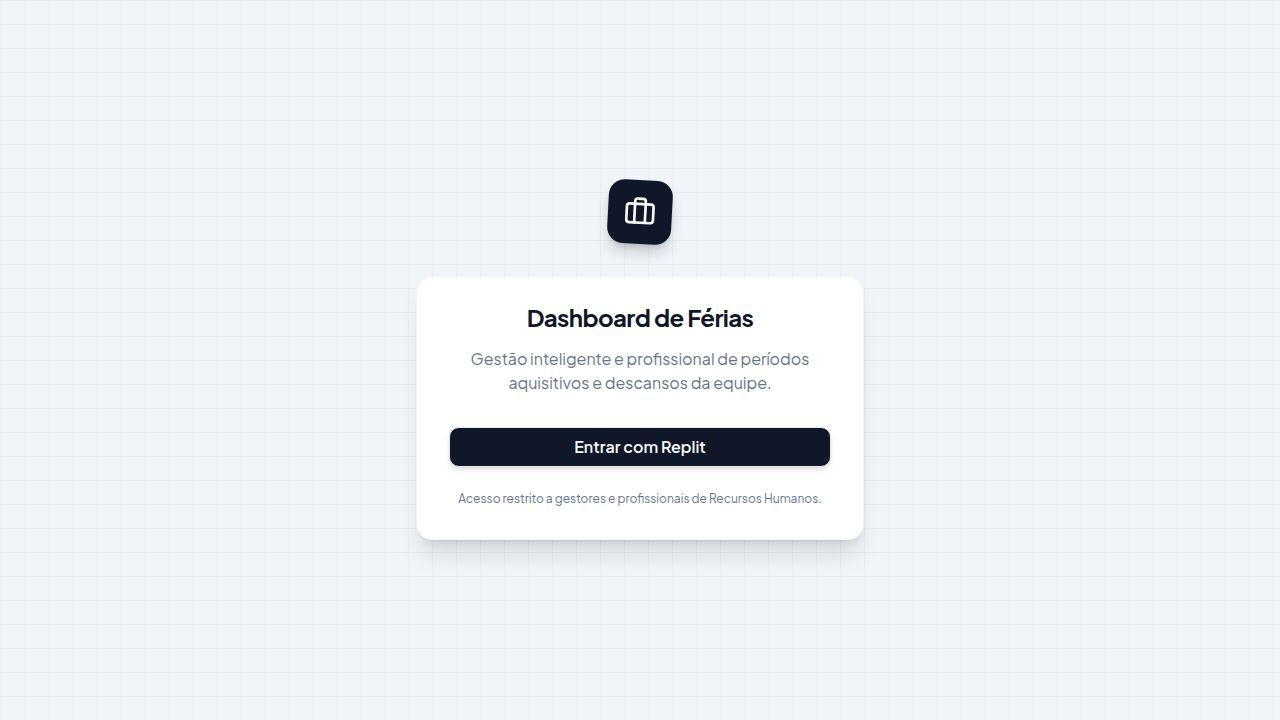
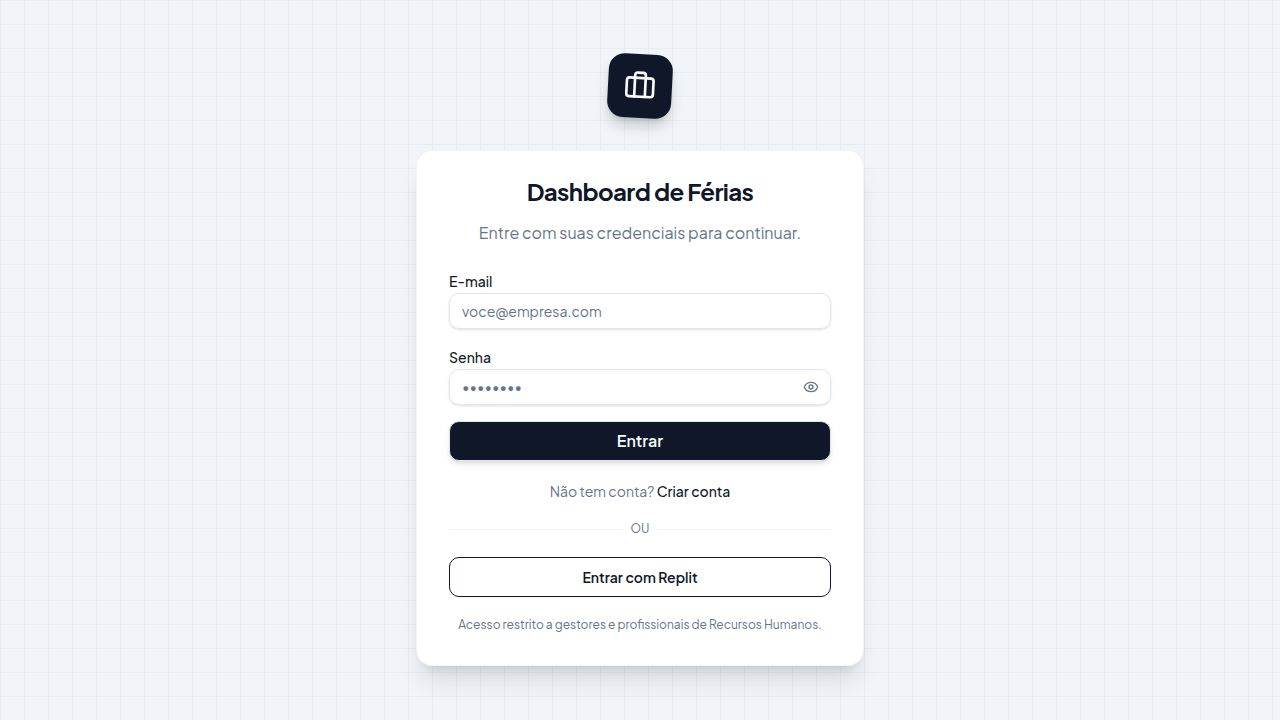
Add email and password login functionality for users
Integrates local email/password authentication by adding new API endpoints for registration and login, updating the database schema to include password hashes, and modifying the vacation dashboard to include a login form. Also includes the installation of `bcryptjs` for password encryption and related type definitions.

Replit-Commit-Author: Agent
Replit-Commit-Session-Id: 3163f47c-8a8c-4944-b483-7641e00f19a3
Replit-Commit-Checkpoint-Type: full_checkpoint
Replit-Commit-Event-Id: b3e093bc-023c-422b-8039-bb496e6e2860
Replit-Commit-Screenshot-Url: https://storage.googleapis.com/screenshot-production-us-central1/3de2da0e-2d70-4d1c-9a7f-1beb80ef44da/3163f47c-8a8c-4944-b483-7641e00f19a3/1ZQdvov
Replit-Helium-Checkpoint-Created: true

diff --git a/artifacts/vacation-dashboard/src/pages/login.tsx b/artifacts/vacation-dashboard/src/pages/login.tsx
@@ -1,38 +1,218 @@
+import { useState } from "react";
 import { useAuth } from "@workspace/replit-auth-web";
 import { Button } from "@/components/ui/button";
-import { Briefcase } from "lucide-react";
+import { Input } from "@/components/ui/input";
+import { Briefcase, Eye, EyeOff, Loader2 } from "lucide-react";
 import { Card, CardContent, CardDescription, CardHeader, CardTitle } from "@/components/ui/card";
+import { Label } from "@/components/ui/label";
+import { useToast } from "@/hooks/use-toast";
+
+type Mode = "login" | "register";
+
+function getApiBase() {
+  const base = import.meta.env.BASE_URL?.replace(/\/$/, "") ?? "";
+  return `${base}/api`;
+}
 
 export default function Login() {
   const { login } = useAuth();
+  const { toast } = useToast();
+
+  const [mode, setMode] = useState<Mode>("login");
+  const [loading, setLoading] = useState(false);
+  const [showPassword, setShowPassword] = useState(false);
+
+  const [email, setEmail] = useState("");
+  const [password, setPassword] = useState("");
+  const [firstName, setFirstName] = useState("");
+  const [lastName, setLastName] = useState("");
+
+  const handleSubmit = async (e: React.FormEvent) => {
+    e.preventDefault();
+    setLoading(true);
+
+    try {
+      const endpoint = mode === "login" ? "/auth/login-local" : "/auth/register-local";
+      const body =
+        mode === "login"
+          ? { email, password }
+          : { email, password, firstName, lastName };
+
+      const res = await fetch(`${getApiBase()}${endpoint}`, {
+        method: "POST",
+        headers: { "Content-Type": "application/json" },
+        body: JSON.stringify(body),
+        credentials: "include",
+      });
+
+      const data = await res.json();
+
+      if (!res.ok) {
+        toast({ variant: "destructive", title: "Erro", description: data.error ?? "Ocorreu um erro." });
+        return;
+      }
+
+      window.location.reload();
+    } catch {
+      toast({ variant: "destructive", title: "Erro de conexão", description: "Não foi possível conectar ao servidor." });
+    } finally {
+      setLoading(false);
+    }
+  };
 
   return (
     <div className="min-h-screen w-full flex items-center justify-center bg-muted/30 p-4">
-      <div className="absolute inset-0 bg-[linear-gradient(to_right,#80808012_1px,transparent_1px),linear-gradient(to_bottom,#80808012_1px,transparent_1px)] bg-[size:24px_24px]"></div>
+      <div className="absolute inset-0 bg-[linear-gradient(to_right,#80808012_1px,transparent_1px),linear-gradient(to_bottom,#80808012_1px,transparent_1px)] bg-[size:24px_24px]" />
       <div className="relative z-10 w-full max-w-md animate-in fade-in zoom-in-95 duration-500">
         <div className="flex justify-center mb-8">
           <div className="h-16 w-16 bg-primary rounded-2xl flex items-center justify-center shadow-lg shadow-primary/20 rotate-3 transition-transform hover:rotate-0">
             <Briefcase className="w-8 h-8 text-primary-foreground" />
           </div>
         </div>
-        
+
         <Card className="border-border/50 shadow-xl">
           <CardHeader className="text-center pb-2">
             <CardTitle className="text-2xl font-bold tracking-tight">Dashboard de Férias</CardTitle>
             <CardDescription className="text-base mt-2">
-              Gestão inteligente e profissional de períodos aquisitivos e descansos da equipe.
+              {mode === "login"
+                ? "Entre com suas credenciais para continuar."
+                : "Crie sua conta para acessar o sistema."}
             </CardDescription>
           </CardHeader>
-          <CardContent className="pt-6 pb-8 px-8">
-            <Button 
-              size="lg" 
-              className="w-full text-base font-semibold shadow-md"
+
+          <CardContent className="pt-4 pb-8 px-8 space-y-5">
+            <form onSubmit={handleSubmit} className="space-y-4">
+              {mode === "register" && (
+                <div className="grid grid-cols-2 gap-3">
+                  <div className="space-y-1.5">
+                    <Label htmlFor="firstName">Nome</Label>
+                    <Input
+                      id="firstName"
+                      placeholder="João"
+                      value={firstName}
+                      onChange={(e) => setFirstName(e.target.value)}
+                      required
+                      disabled={loading}
+                      data-testid="input-first-name"
+                    />
+                  </div>
+                  <div className="space-y-1.5">
+                    <Label htmlFor="lastName">Sobrenome</Label>
+                    <Input
+                      id="lastName"
+                      placeholder="Silva"
+                      value={lastName}
+                      onChange={(e) => setLastName(e.target.value)}
+                      required
+                      disabled={loading}
+                      data-testid="input-last-name"
+                    />
+                  </div>
+                </div>
+              )}
+
+              <div className="space-y-1.5">
+                <Label htmlFor="email">E-mail</Label>
+                <Input
+                  id="email"
+                  type="email"
+                  placeholder="voce@empresa.com"
+                  value={email}
+                  onChange={(e) => setEmail(e.target.value)}
+                  required
+                  disabled={loading}
+                  data-testid="input-email"
+                />
+              </div>
+
+              <div className="space-y-1.5">
+                <Label htmlFor="password">Senha</Label>
+                <div className="relative">
+                  <Input
+                    id="password"
+                    type={showPassword ? "text" : "password"}
+                    placeholder={mode === "register" ? "Mínimo 6 caracteres" : "••••••••"}
+                    value={password}
+                    onChange={(e) => setPassword(e.target.value)}
+                    required
+                    disabled={loading}
+                    className="pr-10"
+                    data-testid="input-password"
+                  />
+                  <button
+                    type="button"
+                    tabIndex={-1}
+                    className="absolute right-3 top-1/2 -translate-y-1/2 text-muted-foreground hover:text-foreground transition-colors"
+                    onClick={() => setShowPassword((s) => !s)}
+                  >
+                    {showPassword ? <EyeOff className="h-4 w-4" /> : <Eye className="h-4 w-4" />}
+                  </button>
+                </div>
+              </div>
+
+              <Button
+                type="submit"
+                size="lg"
+                className="w-full text-base font-semibold shadow-md"
+                disabled={loading}
+                data-testid="button-submit-local"
+              >
+                {loading ? (
+                  <Loader2 className="h-4 w-4 animate-spin mr-2" />
+                ) : null}
+                {mode === "login" ? "Entrar" : "Criar conta"}
+              </Button>
+            </form>
+
+            <div className="text-center text-sm">
+              {mode === "login" ? (
+                <span className="text-muted-foreground">
+                  Não tem conta?{" "}
+                  <button
+                    type="button"
+                    className="text-primary font-medium hover:underline"
+                    onClick={() => { setMode("register"); setPassword(""); }}
+                    data-testid="link-to-register"
+                  >
+                    Criar conta
+                  </button>
+                </span>
+              ) : (
+                <span className="text-muted-foreground">
+                  Já tem conta?{" "}
+                  <button
+                    type="button"
+                    className="text-primary font-medium hover:underline"
+                    onClick={() => { setMode("login"); setPassword(""); }}
+                    data-testid="link-to-login"
+                  >
+                    Entrar
+                  </button>
+                </span>
+              )}
+            </div>
+
+            <div className="relative">
+              <div className="absolute inset-0 flex items-center">
+                <span className="w-full border-t border-border/60" />
+              </div>
+              <div className="relative flex justify-center text-xs uppercase">
+                <span className="bg-card px-2 text-muted-foreground">ou</span>
+              </div>
+            </div>
+
+            <Button
+              type="button"
+              variant="outline"
+              size="lg"
+              className="w-full font-semibold"
               onClick={login}
-              data-testid="button-login"
+              data-testid="button-login-replit"
             >
               Entrar com Replit
             </Button>
-            <p className="text-center text-xs text-muted-foreground mt-6">
+
+            <p className="text-center text-xs text-muted-foreground">
               Acesso restrito a gestores e profissionais de Recursos Humanos.
             </p>
           </CardContent>

diff --git a/artifacts/api-server/src/routes/auth.ts b/artifacts/api-server/src/routes/auth.ts
@@ -1,4 +1,5 @@
 import * as oidc from "openid-client";
+import bcrypt from "bcryptjs";
 import { Router, type IRouter, type Request, type Response } from "express";
 import {
   GetCurrentAuthUserResponse,
@@ -11,6 +12,7 @@ import { db, usersTable } from "@workspace/db";
 import {
   clearSession,
   getOidcConfig,
+  getSession,
   getSessionId,
   createSession,
   deleteSession,
@@ -194,18 +196,120 @@ router.get("/callback", async (req: Request, res: Response) => {
 });
 
 router.get("/logout", async (req: Request, res: Response) => {
-  const config = await getOidcConfig();
   const origin = getOrigin(req);
-
   const sid = getSessionId(req);
+
+  const session = sid ? await getSession(sid) : null;
+  const isLocal = session?.localAuth === true;
+
   await clearSession(res, sid);
 
+  if (isLocal) {
+    res.redirect("/");
+    return;
+  }
+
+  const config = await getOidcConfig();
   const endSessionUrl = oidc.buildEndSessionUrl(config, {
     client_id: process.env.REPL_ID!,
     post_logout_redirect_uri: origin,
   });
 
   res.redirect(endSessionUrl.href);
+});
+
+function isValidEmail(email: string): boolean {
+  return /^[^\s@]+@[^\s@]+\.[^\s@]+$/.test(email);
+}
+
+router.post("/auth/register-local", async (req: Request, res: Response): Promise<void> => {
+  const { email, password, firstName, lastName } = req.body ?? {};
+
+  if (!email || !isValidEmail(email)) {
+    res.status(400).json({ error: "E-mail inválido." });
+    return;
+  }
+  if (!password || password.length < 6) {
+    res.status(400).json({ error: "A senha deve ter no mínimo 6 caracteres." });
+    return;
+  }
+  if (!firstName?.trim()) {
+    res.status(400).json({ error: "Nome é obrigatório." });
+    return;
+  }
+  if (!lastName?.trim()) {
+    res.status(400).json({ error: "Sobrenome é obrigatório." });
+    return;
+  }
+
+  const [existing] = await db.select().from(usersTable).where(eq(usersTable.email, email));
+  if (existing) {
+    res.status(409).json({ error: "Este e-mail já está cadastrado." });
+    return;
+  }
+
+  const passwordHash = await bcrypt.hash(password, 12);
+  const [user] = await db.insert(usersTable).values({
+    email,
+    firstName,
+    lastName,
+    passwordHash,
+  }).returning();
+
+  const sessionData: SessionData = {
+    user: {
+      id: user.id,
+      email: user.email,
+      firstName: user.firstName,
+      lastName: user.lastName,
+      profileImageUrl: user.profileImageUrl,
+      isManager: user.isManager,
+    },
+    access_token: "",
+    localAuth: true,
+  };
+
+  const sid = await createSession(sessionData);
+  setSessionCookie(res, sid);
+  res.json({ ok: true });
+});
+
+router.post("/auth/login-local", async (req: Request, res: Response): Promise<void> => {
+  const { email, password } = req.body ?? {};
+
+  if (!email || !password) {
+    res.status(400).json({ error: "E-mail ou senha inválidos." });
+    return;
+  }
+
+  const [user] = await db.select().from(usersTable).where(eq(usersTable.email, email));
+  if (!user || !user.passwordHash) {
+    res.status(401).json({ error: "E-mail ou senha incorretos." });
+    return;
+  }
+
+  const match = await bcrypt.compare(password, user.passwordHash);
+  if (!match) {
+    res.status(401).json({ error: "E-mail ou senha incorretos." });
+    return;
+  }
+
+  const sessionData: SessionData = {
+    user: {
+      id: user.id,
+      email: user.email,
+      firstName: user.firstName,
+      lastName: user.lastName,
+      profileImageUrl: user.profileImageUrl,
+      isManager: user.isManager,
+    },
+    access_token: "",
+    localAuth: true,
+  };
+
+  const sid = await createSession(sessionData);
+  setSessionCookie(res, sid);
+  res.json({ ok: true });
 });
 
 router.post(

diff --git a/lib/db/src/schema/auth.ts b/lib/db/src/schema/auth.ts
@@ -19,6 +19,7 @@ export const usersTable = pgTable("users", {
   firstName: varchar("first_name"),
   lastName: varchar("last_name"),
   profileImageUrl: varchar("profile_image_url"),
+  passwordHash: varchar("password_hash"),
   isManager: boolean("is_manager").notNull().default(false),
   createdAt: timestamp("created_at", { withTimezone: true }).notNull().defaultNow(),
   updatedAt: timestamp("updated_at", { withTimezone: true }).notNull().defaultNow().$onUpdate(() => new Date()),

diff --git a/artifacts/api-server/src/lib/auth.ts b/artifacts/api-server/src/lib/auth.ts
@@ -14,6 +14,7 @@ export interface SessionData {
   access_token: string;
   refresh_token?: string;
   expires_at?: number;
+  localAuth?: boolean;
 }
 
 let oidcConfig: client.Configuration | null = null;
